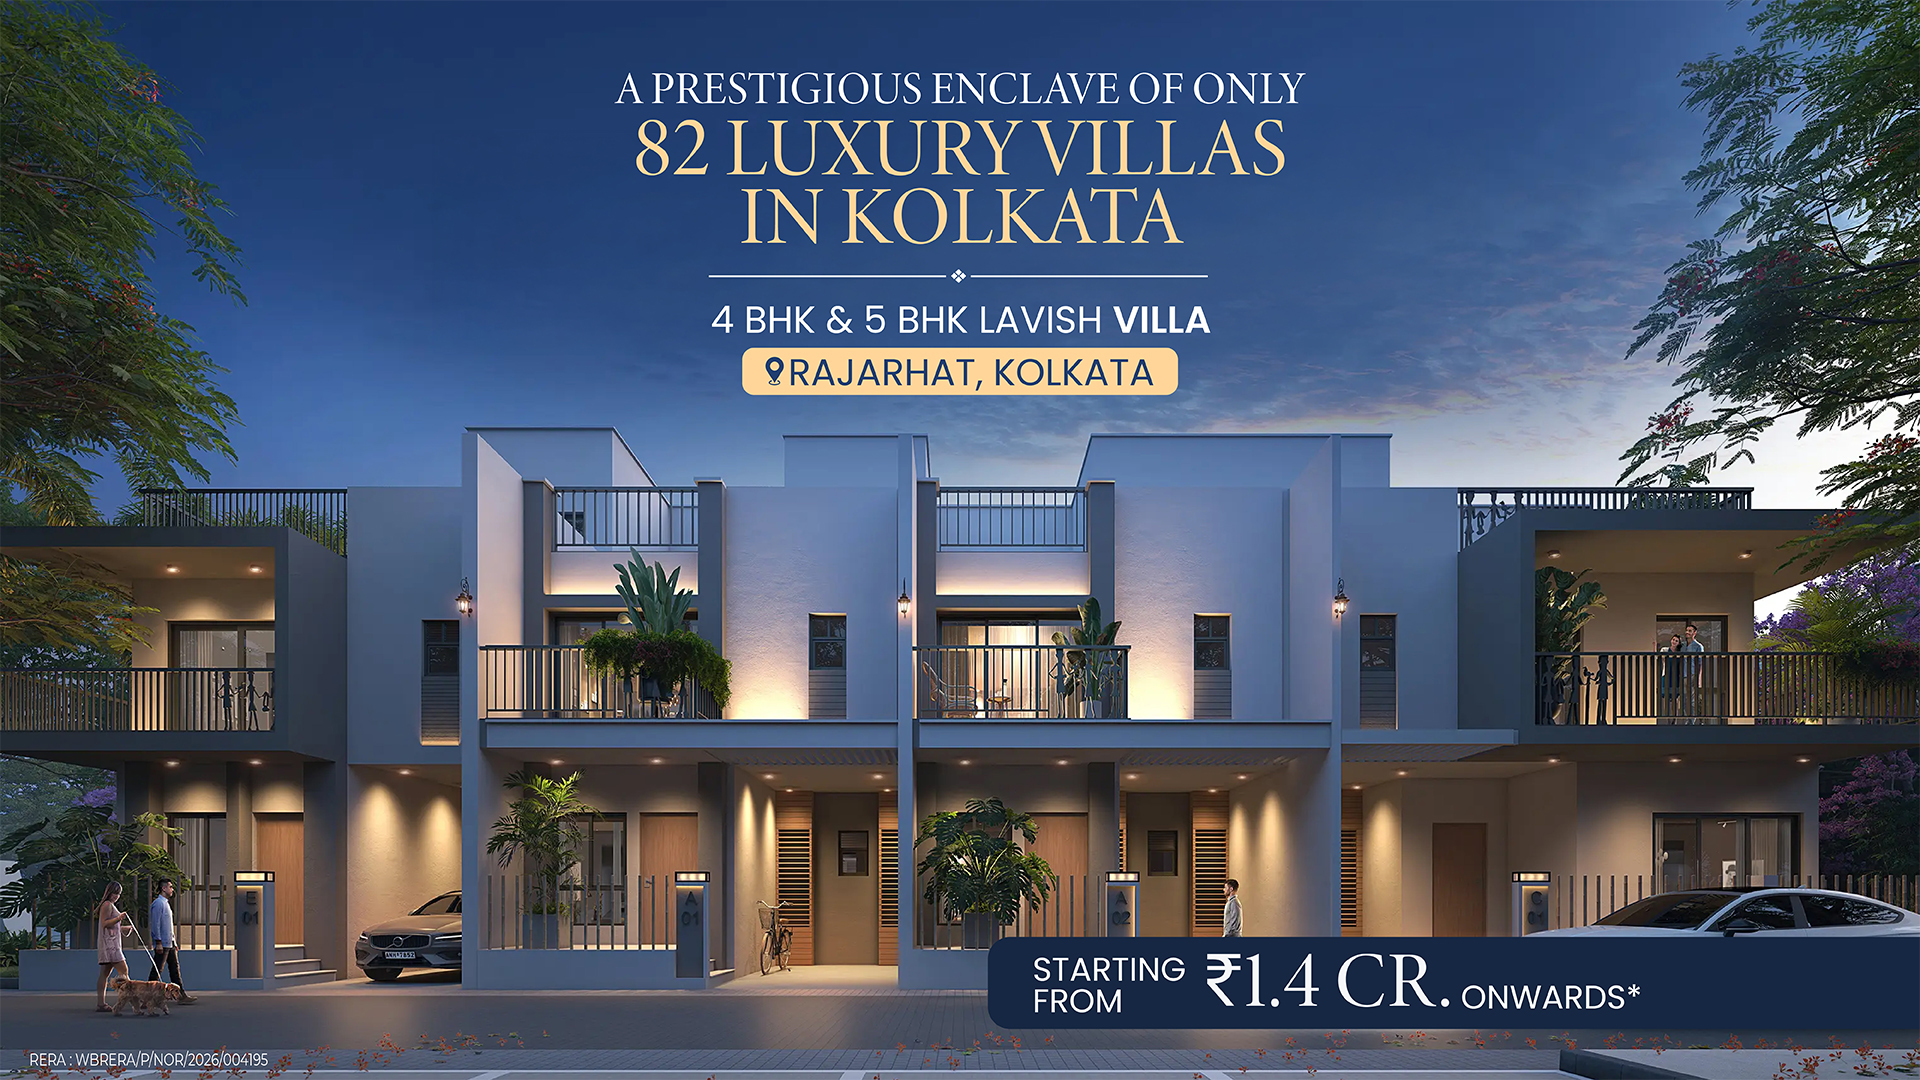
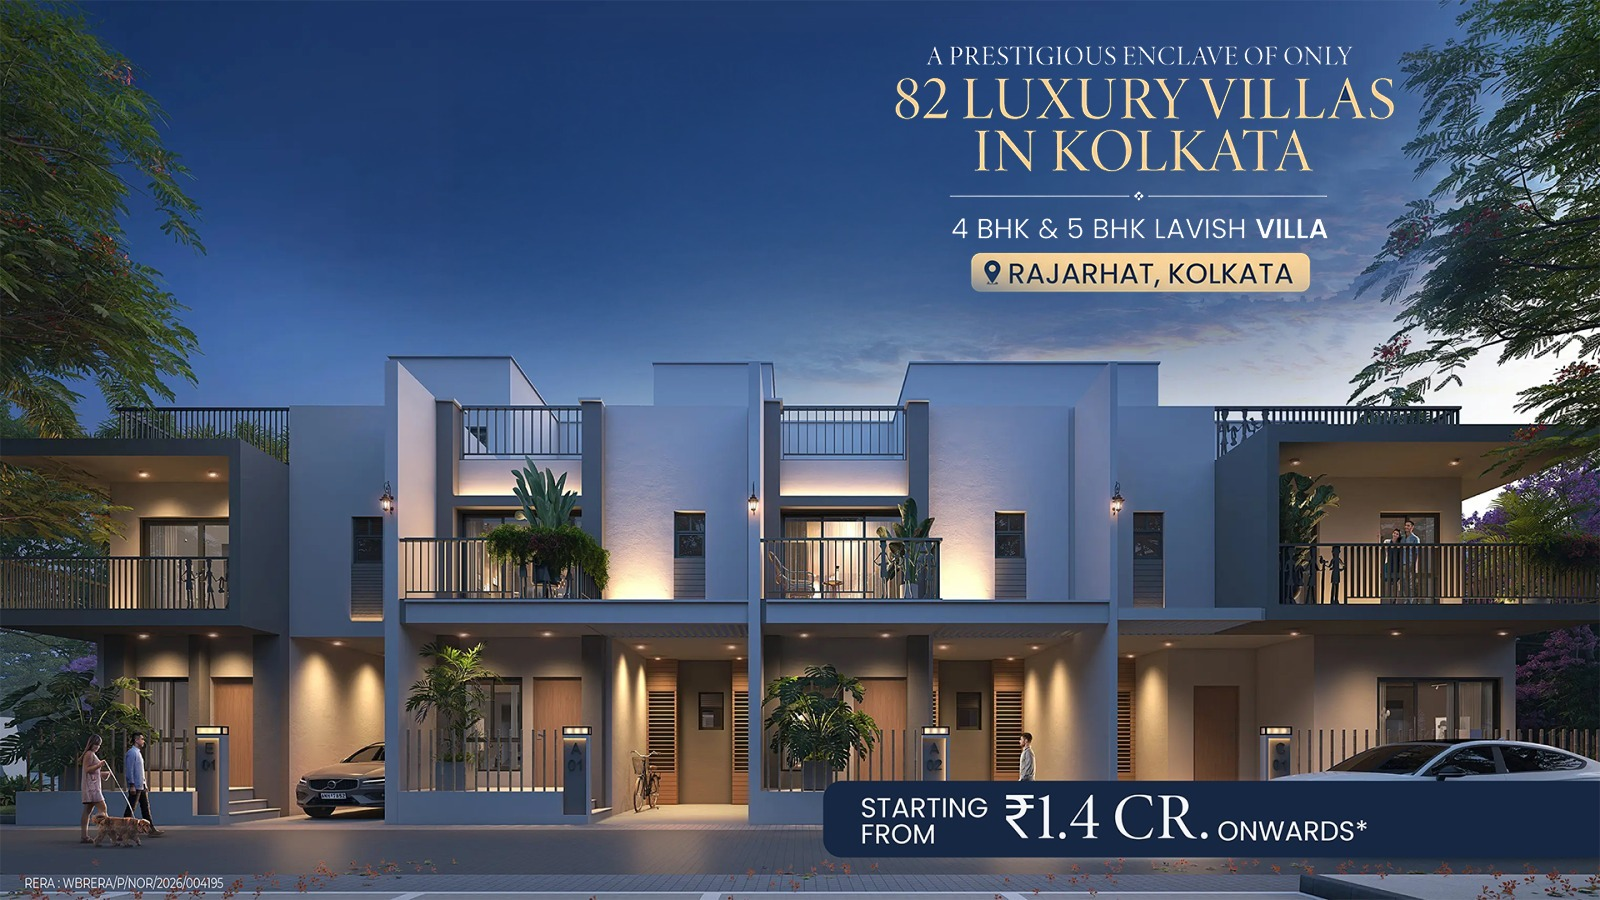
Increase bottom padding and adjust hero image scaling for improved layout

diff --git a/components/Hero.jsx b/components/Hero.jsx
@@ -46,7 +46,7 @@ const Hero = ({ setIsOpen }) => {
           bottom: 0;
           left: 0;
           z-index: 10;
-          padding: 100px 80px 30px 44px; /* Reduced bottom padding to move content further down */
+          padding: 100px 80px 160px 44px; /* Increased bottom padding to move content up */
           width: 100%;
           max-width: 800px;
           background: radial-gradient(
@@ -168,7 +168,7 @@ const Hero = ({ setIsOpen }) => {
 
         @keyframes heroZoomInOut {
           0% { transform: scale(1); }
-          50% { transform: scale(1.05); }
+          50% { transform: scale(1.1); }
           100% { transform: scale(1); }
         }
 
@@ -180,14 +180,7 @@ const Hero = ({ setIsOpen }) => {
 
         /* ─── Desktop ─── */
         @media (min-width: 1024px) {
-          .hero-container {
-            height: calc(100vh - 80px);
-            max-height: 700px;
-          }
-          .desktop-hero-image {
-            height: 100% !important;
-            object-fit: cover;
-          }
+          /* Let the image define the container height to prevent cropping */
         }
 
         .carousel-dots {